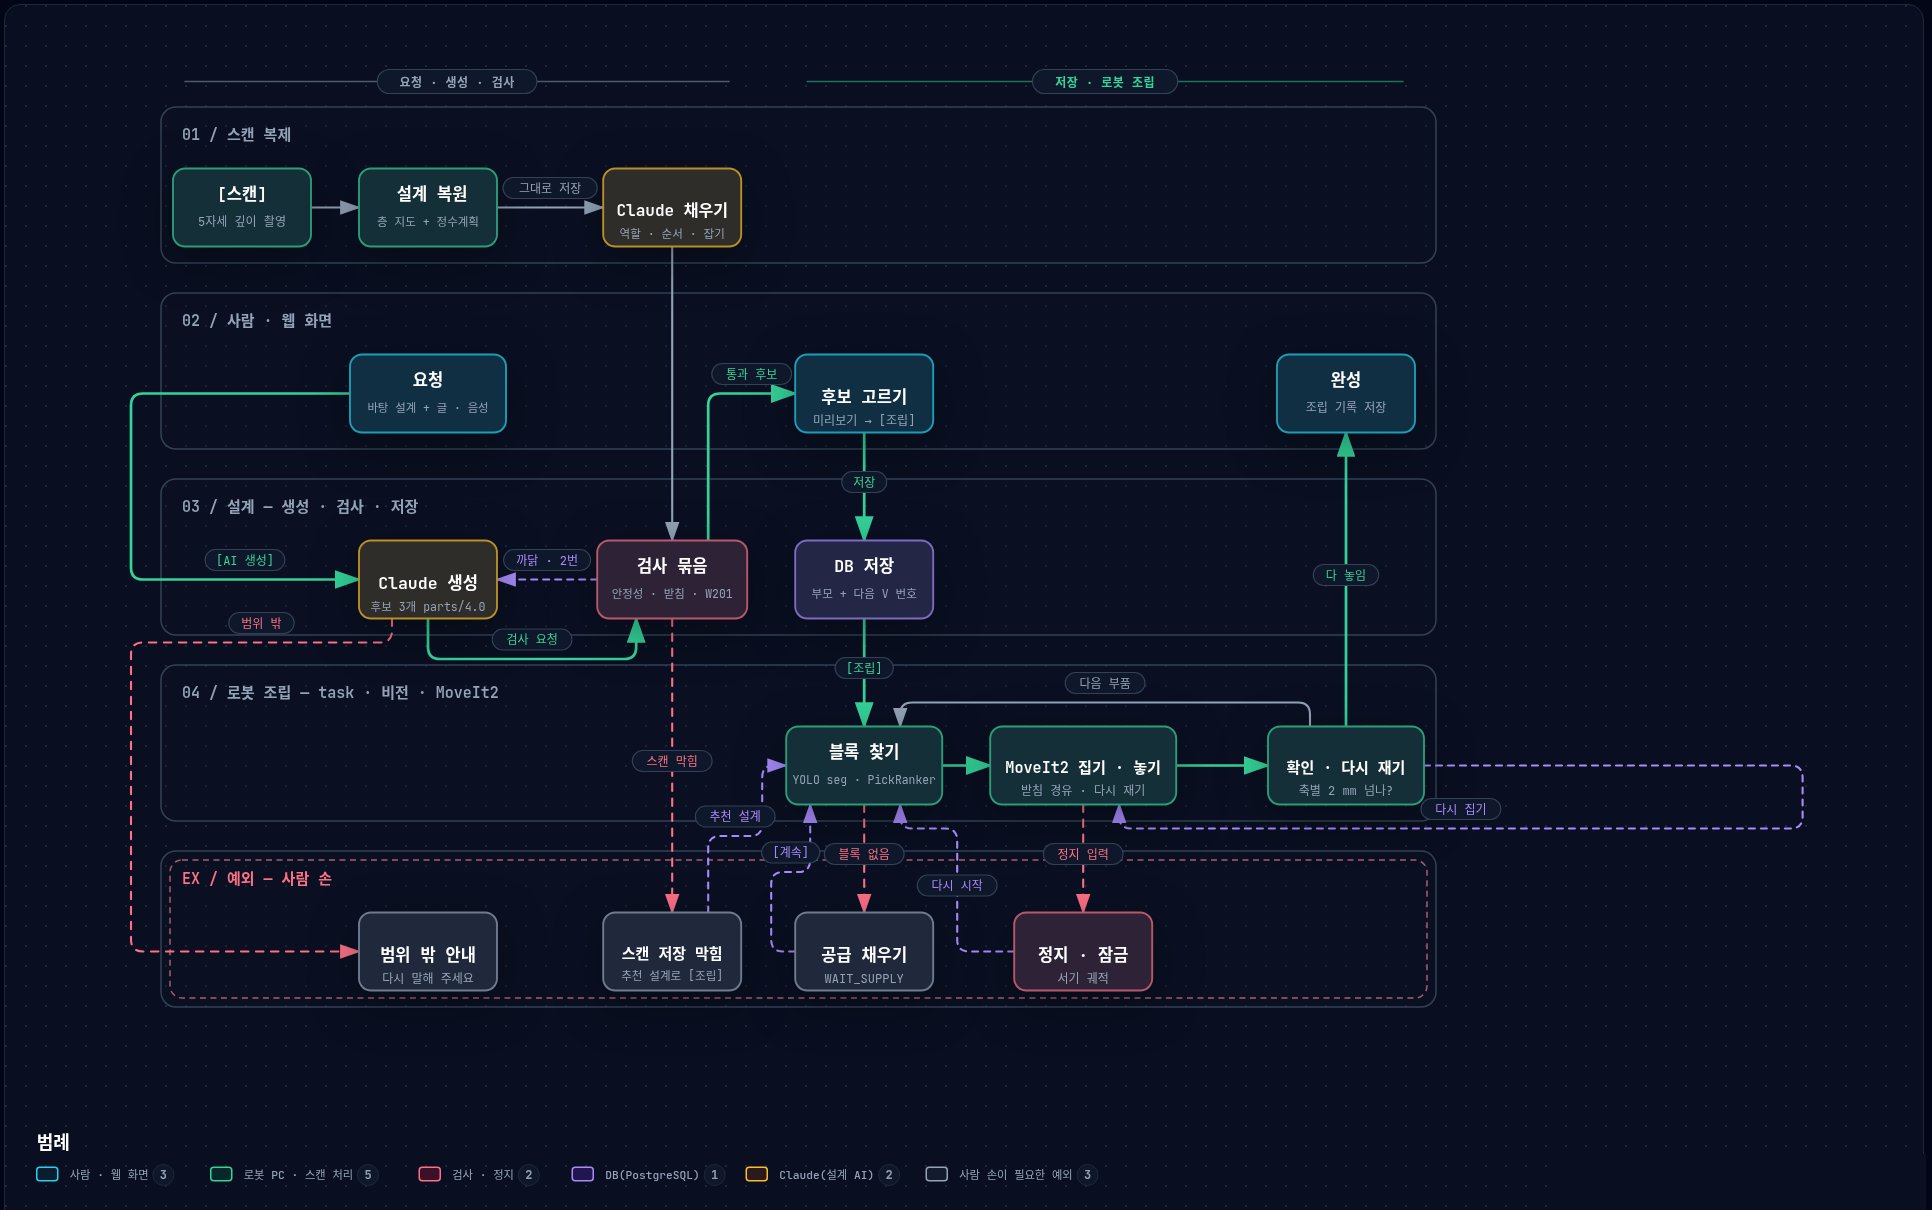
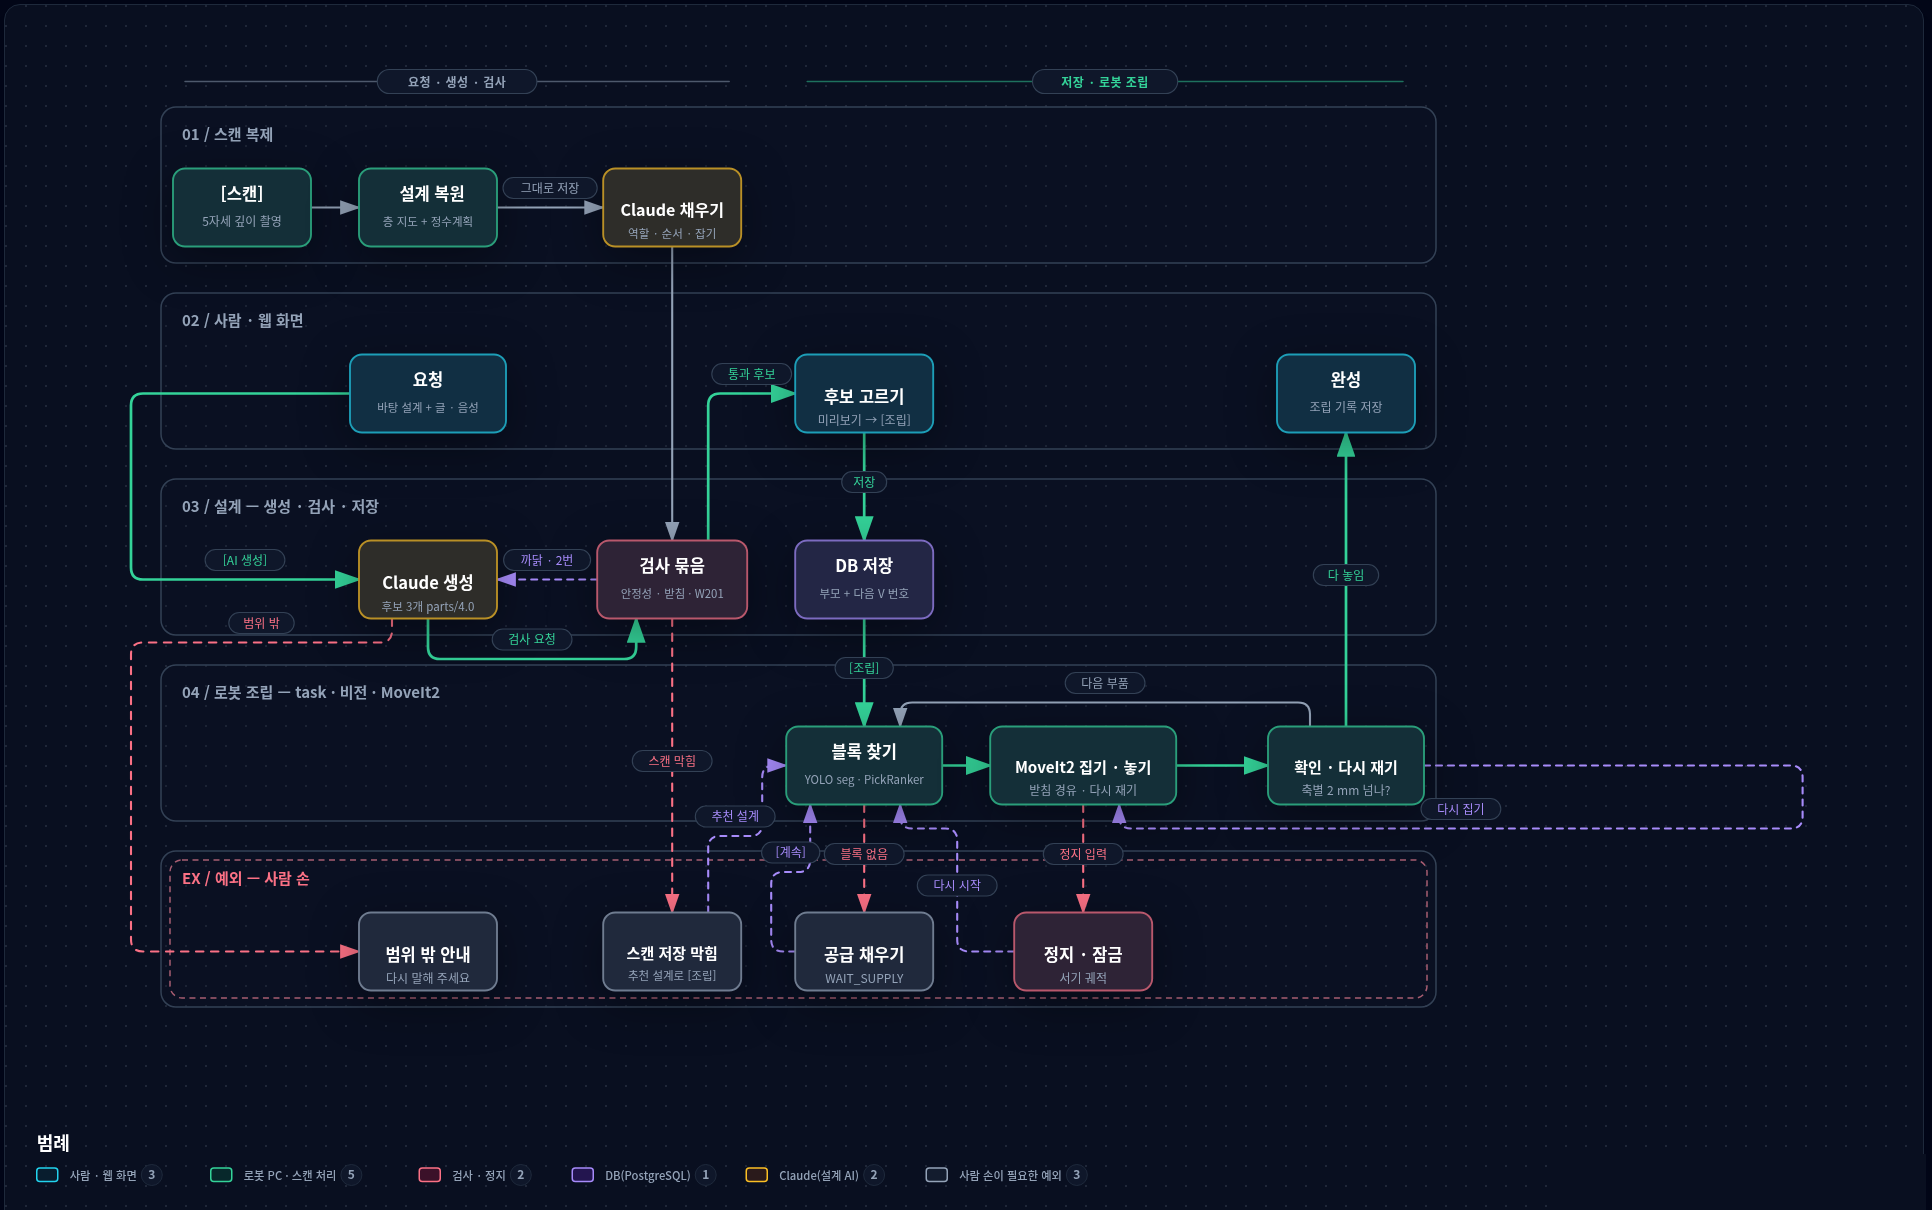
docs: 아키파이 플로우 차트 한글 글꼴(고정폭 → 한글 글꼴) · README 그림 다시 찍음
- 플로우차트_v1_101610.html: <style id="bm-kr-font"> — 노드 · 선 · 줄 글자를 Noto Sans KR · 맑은 고딕 · Apple SD Gothic Neo 로
  (기본 JetBrains Mono 에서 한글이 대체 글꼴로 그려져 간격 · 굵기가 들쭉날쭉하던 것). archify visual-check(넘침 · 읽기) 통과
- docs/images/플로우차트_v1_101610_light · dark.png 다시 찍음, CHANGES

변경 파일: docs/images/archify/플로우차트_v1_101610.html, docs/images/플로우차트_v1_101610_light.png, docs/images/플로우차트_v1_101610_dark.png, CHANGES.md
영향: 문서(공통)

diff --git a/docs/images/archify/플로우차트_v1_101610.html b/docs/images/archify/플로우차트_v1_101610.html
@@ -5040,7 +5040,7 @@ OTHER DEALINGS IN THE FONT SOFTWARE.
       svg [data-node-id], svg [data-edge-from], svg [data-detail], svg [data-detail-anchor], svg [data-legend-hit], svg { transition: none !important; }
     }
   </style>
-</head>
+<style id="bm-kr-font">/* BuildMind 10/16: 한글 노드 글자는 고정폭(JetBrains Mono) 대신 한글 글꼴로 — 글자 간격 · 굵기 고르게 */svg text, svg tspan { font-family: "Noto Sans KR", "Noto Sans CJK KR", "Malgun Gothic", "Apple SD Gothic Neo", sans-serif !important; }</style></head>
 <body>
   <!-- Toolbar: theme, live visual style, trace motion, presentation stage, and export.
        Motion appears only for trace-enabled artifacts and has no shortcut;

diff --git a/CHANGES.md b/CHANGES.md
@@ -8,6 +8,7 @@
 - 공통(PM — 10/16 오전 PL · 한석형 자료): **04 결과표에 10/15 리허설 2 AI 생성 기록(gen_logs 14건) 반영** — 변형 요청 4 / 5 통과 · 형식 실패 0 · 통과 평균 102.8초 · 잡음 · 시동어 6건 VOICE_UNCLEAR 생성 0 · 스캔 채우기 3건(V010 저장) — AC-2 · AC-8 · NFR-04 · V-44 · KPI · README 결과 표 · PPT(22장 · 21장 — PPT 수정 에이전트)
 - 공통(PM — 10/16 오전 PL): **아키파이 플로우 차트(workflow) 새로 + 그림 모음 페이지 `docs/images/archify/index.html`** — 탭 4개(시스템 아키텍처 · 플로우 차트 · DB ERD · MQTT), 마우스를 올려도 나머지가 흐려지지 않게(스위치로 켬), README · docs/README · 아키텍처 설명 링크를 하나로
 - 공통(PM — 10/16 PL): **아키파이 플로우 차트 글자 정렬(노드 아이콘 빼서 제목 · 설명 높이 맞춤) · README 플로우 차트 = 아키파이 그림(밝은 · 어두운 판 자동) + mermaid 3개는 접어 둠** · 그림 모음이 GitHub 새 판을 매번 확인(no-cache)
+- 공통(PM — 10/16 PL '한글 배치가 안 맞음'): **플로우 차트 글자를 한글 글꼴로**(아키파이 기본 고정폭 JetBrains Mono → Noto Sans KR · 맑은 고딕 · Apple SD Gothic — 화면 검사 통과) · README 플로우 차트 그림 다시 찍음
 - 남은 것: 04 결과표 '＿＿(10/16 시연 결과 — PL 확인)' 칸 · 코드 주석 옛 글(담당 팀원 — task_node 311 · task_manager 1363 '다시 집기 기본 꺼짐' · srv 주석 · types.ts · capture_scene.py 경로)
 
 ## 2026-10-15
